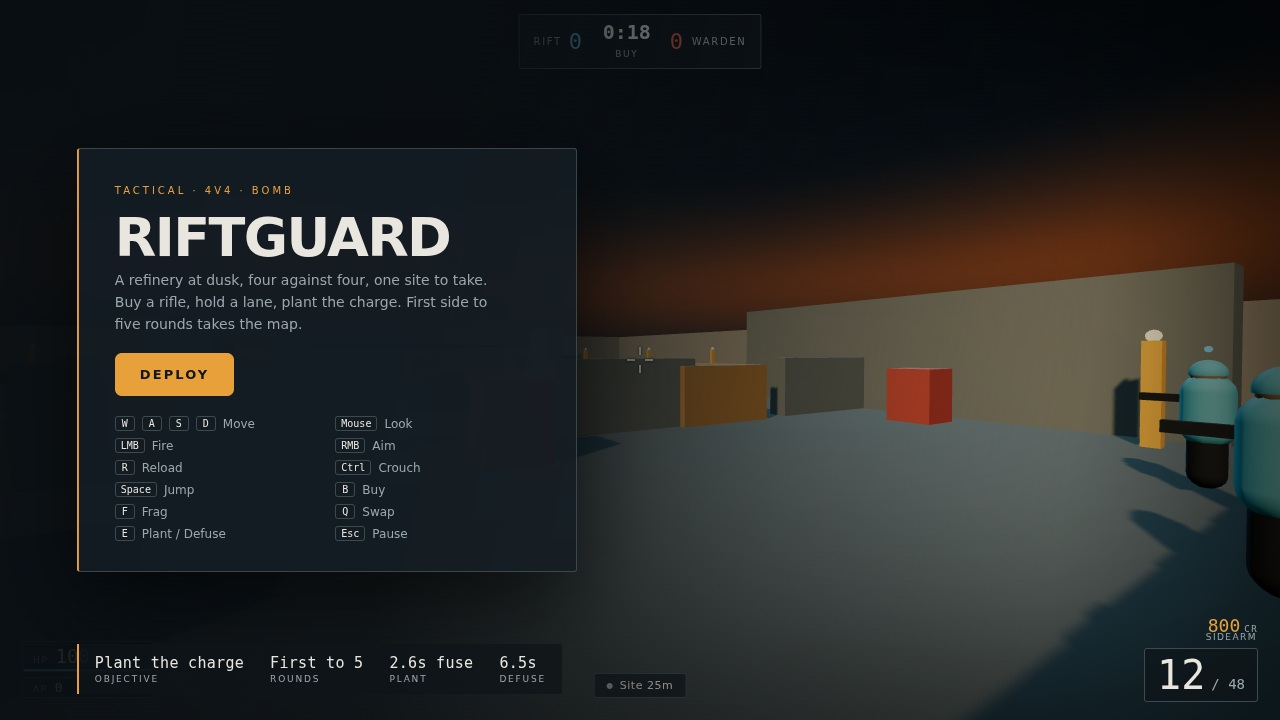
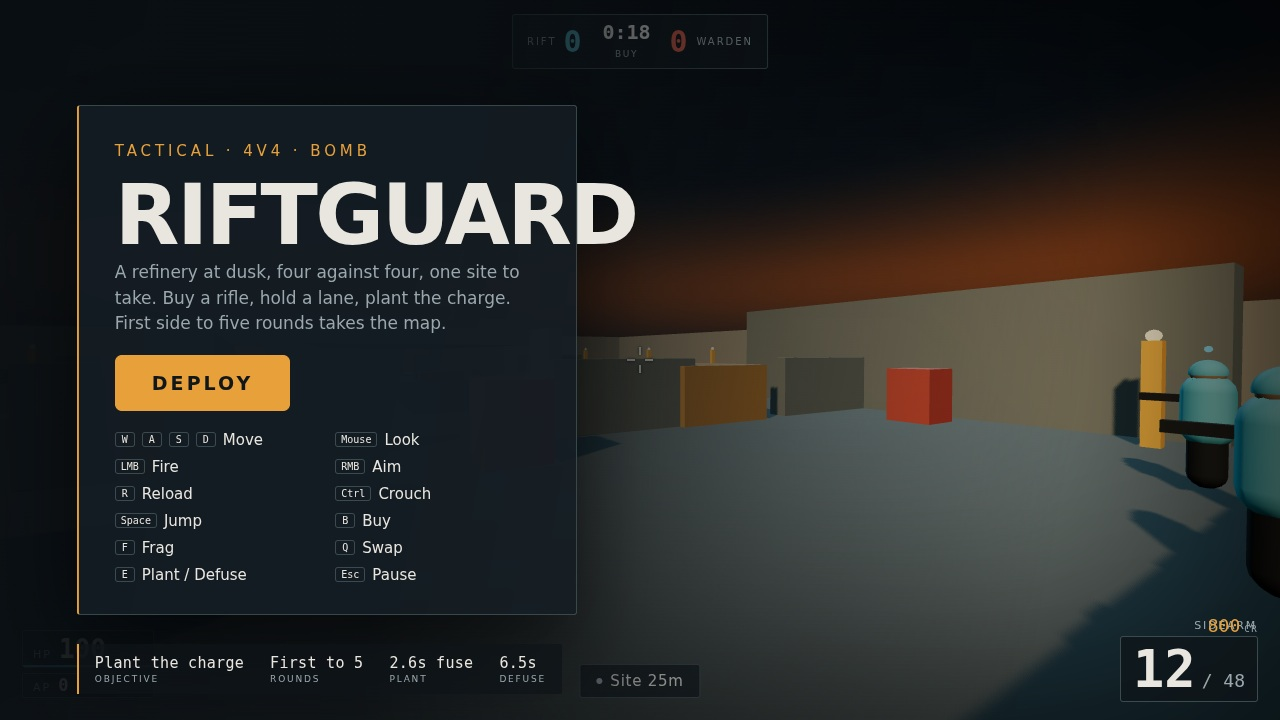
judge pass: bigger HUD and title type, victory plate with restart, three stills for the sheet

diff --git a/game/index.html b/game/index.html
@@ -48,8 +48,8 @@
   /* ---- scoreboard ---- */
   #topbar { position: absolute; top: 14px; left: 50%; transform: translateX(-50%); display: flex; align-items: center; gap: 14px;
     padding: 7px 14px; background: rgba(14,20,24,.72); border: 1px solid var(--hairline); border-radius: var(--panel); backdrop-filter: blur(3px); }
-  #topbar .team { display: flex; align-items: center; gap: 7px; font-size: 12px; letter-spacing: .14em; text-transform: uppercase; }
-  #topbar .team b { font-family: var(--font-readout); font-size: 22px; line-height: 1; font-weight: 500; }
+  #topbar .team { display: flex; align-items: center; gap: 7px; font-size: 14px; letter-spacing: .14em; text-transform: uppercase; }
+  #topbar .team b { font-family: var(--font-readout); font-size: 30px; line-height: 1; font-weight: 600; }
   #topbar .team.a { color: var(--team); }
   #topbar .team.b { color: var(--hostile); }
   #topbar .label { color: var(--muted); font-size: 10px; }
@@ -76,23 +76,23 @@
   #vitals .bar { position: relative; display: flex; align-items: baseline; gap: 7px; padding: 5px 10px; min-width: 132px;
     background: rgba(14,20,24,.74); border: 1px solid var(--hairline); border-radius: var(--panel); overflow: hidden; }
   #vitals .bar.small { min-width: 84px; padding: 3px 10px; }
-  #vitals .cap { font-size: 9px; letter-spacing: .18em; color: var(--muted); }
-  #vitals .bar b { font-family: var(--font-readout); font-size: 19px; line-height: 1; font-weight: 500; }
-  #vitals .bar.small b { font-size: 13px; }
+  #vitals .cap { font-size: 11px; letter-spacing: .18em; color: var(--muted); }
+  #vitals .bar b { font-family: var(--font-readout); font-size: 26px; line-height: 1; font-weight: 600; }
+  #vitals .bar.small b { font-size: 17px; }
   #vitals .bar i { position: absolute; left: 0; bottom: 0; height: 2px; width: 100%; background: var(--team); transition: width 130ms ease, background-color 200ms ease; }
 
   #ammo { position: absolute; right: 22px; bottom: 18px; display: flex; align-items: baseline; gap: 6px; padding: 6px 12px;
     background: rgba(14,20,24,.74); border: 1px solid var(--hairline); border-radius: var(--panel); }
-  #ammo b { font-family: var(--font-readout); font-size: 40px; line-height: 1; font-weight: 500; }
-  #ammo span { font-family: var(--font-readout); font-size: 14px; color: var(--muted); }
-  #ammo em { position: absolute; top: -17px; right: 0; font-style: normal; font-size: 9px; letter-spacing: .16em; color: var(--muted); text-transform: uppercase; }
+  #ammo b { font-family: var(--font-readout); font-size: 52px; line-height: 1; font-weight: 600; }
+  #ammo span { font-family: var(--font-readout); font-size: 18px; color: var(--muted); }
+  #ammo em { position: absolute; top: -18px; right: 0; font-style: normal; font-size: 11px; letter-spacing: .16em; color: var(--muted); text-transform: uppercase; }
 
   #money { position: absolute; right: 22px; bottom: 84px; display: flex; align-items: baseline; gap: 4px; font-family: var(--font-readout); }
   #money b { font-size: 18px; color: var(--accent); font-weight: 500; }
   #money span { font-size: 9px; letter-spacing: .16em; color: var(--muted); }
 
-  #obj { position: absolute; left: 50%; bottom: 22px; transform: translateX(-50%); display: flex; align-items: center; gap: 7px;
-    padding: 5px 12px; background: rgba(14,20,24,.70); border: 1px solid var(--hairline); border-radius: var(--panel); font-size: 11px; letter-spacing: .05em; }
+  #obj { position: absolute; left: 50%; bottom: 22px; transform: translateX(-50%); display: flex; align-items: center; gap: 8px;
+    padding: 7px 16px; background: rgba(14,20,24,.70); border: 1px solid var(--hairline); border-radius: var(--panel); font-size: 15px; letter-spacing: .05em; }
   #obj i { width: 6px; height: 6px; border-radius: 50%; background: var(--muted); }
 
   /* ---- buy menu ---- */
@@ -125,10 +125,12 @@
     background: linear-gradient(180deg, rgba(20,28,34,.95), rgba(12,17,21,.97)); border: 1px solid var(--hairline);
     border-top: 2px solid var(--accent); border-radius: var(--panel); box-shadow: 0 24px 70px rgba(0,0,0,.72); min-width: 400px; }
   #end-kicker { margin: 0 0 6px; font-size: 10px; letter-spacing: .3em; color: var(--accent); text-transform: uppercase; }
-  #end-title { margin: 0; font-size: 40px; line-height: 1.05; letter-spacing: .1em; text-transform: uppercase; }
-  #end-sub { margin: 8px 0 16px; font-size: 11px; letter-spacing: .18em; color: var(--muted); text-transform: uppercase; }
-  #end-score { display: flex; align-items: center; justify-content: center; gap: 16px; margin: 0 0 16px;
-    font-family: var(--font-readout); font-size: 40px; line-height: 1; }
+  #end-title { margin: 0; font-size: 76px; line-height: .95; letter-spacing: .06em; text-transform: uppercase; font-weight: 700; }
+  #end-sub { margin: 10px 0 14px; font-size: 15px; letter-spacing: .18em; color: var(--muted); text-transform: uppercase; }
+  #end-score { display: flex; align-items: center; justify-content: center; gap: 16px; margin: 0 0 14px;
+    font-family: var(--font-readout); font-size: 56px; line-height: 1; }
+  #end-again { margin: 4px 0 12px; padding: 11px 22px; display: inline-block; font-size: 16px; letter-spacing: .14em; text-transform: uppercase;
+    color: #10161a; background: var(--accent); border-radius: var(--ctl); font-weight: 700; }
   #end-score .a { color: var(--team); }
   #end-score .b { color: var(--hostile); }
   #end-score .dash { color: var(--muted); font-size: 22px; }
@@ -147,14 +149,14 @@
   #overlay[hidden] { display: none; }
   .panel { width: min(500px, 46vw); padding: 34px 36px 30px; background: rgba(20,29,35,.90);
     border: 1px solid var(--hairline); border-left: 2px solid var(--accent); border-radius: var(--panel); box-shadow: 0 30px 90px rgba(0,0,0,.66); }
-  .panel h1 { margin: 0 0 6px; font-size: 54px; line-height: .96; font-weight: 700; letter-spacing: -.03em; text-transform: uppercase; }
-  .panel .sub { margin: 0 0 14px; font-size: 10px; letter-spacing: .3em; color: var(--accent); text-transform: uppercase; }
-  .panel p { margin: 0 0 18px; max-width: 44ch; font-size: 14px; line-height: 1.55; color: var(--muted); }
-  #play { font: inherit; font-weight: 700; font-size: 13px; letter-spacing: .16em; text-transform: uppercase; padding: 13px 24px;
+  .panel h1 { margin: 0 0 6px; font-size: 84px; line-height: .92; font-weight: 800; letter-spacing: -.03em; text-transform: uppercase; }
+  .panel .sub { margin: 0 0 14px; font-size: 15px; letter-spacing: .26em; color: var(--accent); text-transform: uppercase; }
+  .panel p { margin: 0 0 18px; max-width: 38ch; font-size: 17px; line-height: 1.5; color: var(--muted); }
+  #play { font: inherit; font-weight: 800; font-size: 19px; letter-spacing: .16em; text-transform: uppercase; padding: 16px 36px;
     border: 1px solid var(--accent); border-radius: var(--ctl); background: var(--accent); color: #10161a; cursor: pointer; transition: background-color 120ms ease; }
   #play:hover { background: var(--ink); border-color: var(--ink); }
   #play:focus-visible { outline: 2px solid var(--accent); outline-offset: 2px; }
-  .keys { margin: 20px 0 0; padding: 0; list-style: none; display: grid; grid-template-columns: 1fr 1fr; gap: 7px 16px; font-size: 12px; color: var(--muted); }
+  .keys { margin: 20px 0 0; padding: 0; list-style: none; display: grid; grid-template-columns: 1fr 1fr; gap: 9px 16px; font-size: 15px; color: var(--ink); }
   .keys li { display: flex; align-items: center; gap: 7px; }
   .keys kbd { min-width: 20px; text-align: center; }
   @media (prefers-reduced-motion: reduce) { * { animation-duration: .01ms !important; transition-duration: .01ms !important; } }

diff --git a/game/src/main.js b/game/src/main.js
@@ -400,7 +400,16 @@ function updateHud(dt) {
   if (sim.match.matchOver && !matchEnded) {
     matchEnded = true;
     const win = sim.match.scoreA > sim.match.scoreB;
-    hud.showEnd(win ? 'RIFT TAKES THE MAP' : 'WARDEN HOLDS', `${sim.match.scoreA} — ${sim.match.scoreB}`);
+    const p = sim.player;
+    hud.showEnd(win ? 'VICTORY' : 'DEFEAT', `${sim.match.scoreA} — ${sim.match.scoreB} WARDEN`, {
+      kicker: 'MATCH COMPLETE · FIRST TO 5',
+      a: sim.match.scoreA,
+      b: sim.match.scoreB,
+      kills: p.kills,
+      accuracy: p.shotsFired > 0 ? Math.round((p.shotsHit / p.shotsFired) * 100) : 0,
+      money: p.money,
+      mode: 'match',
+    });
   }
 
   hud.step(dt);
@@ -607,7 +616,7 @@ function frameFirefight() {
 function runShot(mode) {
   const input = scriptedInput(0);
   // Enough simulation for bodies to leave spawn, meet and trade shots: 4 s of buy plus ~20 s of play.
-  const frames = mode === 'start' ? 0 : mode === 'end' ? 5400 : mode === 'hero' ? 0 : 1500;
+  const frames = mode === 'start' ? 0 : mode === 'hero' ? 0 : mode === 'end' ? 5400 : mode === 'final' ? 60000 : 1500;
   for (let i = 0; i < frames; i += 1) {
     if (sim.match.phase === PHASE.BUY && sim.match.timer > 0.1 && i < 8) sim.match.timer = 0.02;
     sim.step(FIXED_STEP, input);
@@ -615,6 +624,7 @@ function runShot(mode) {
     // being re-handled on every later frame.
     handleEvents(sim.drainEvents());
     if (mode === 'end' && sim.match.phase === PHASE.ENDED) break;
+    if (mode === 'final' && sim.match.matchOver) break;
   }
   let heroInfo = null;
   if (mode === 'hero') {
@@ -659,13 +669,30 @@ function runShot(mode) {
   if (mode === 'end') {
     const p = sim.player;
     const acc = p.shotsFired > 0 ? Math.round((p.shotsHit / p.shotsFired) * 100) : 0;
-    hud.showEnd('RIFT TAKES THE ROUND', 'charge detonation', {
+    hud.showEnd('ROUND WON', `${sim.match.scoreA} — ${sim.match.scoreB} WARDEN`, {
       kicker: `ROUND ${sim.match.round} · RESOLVED`,
       a: sim.match.scoreA,
       b: sim.match.scoreB,
       kills: p.kills,
       accuracy: acc,
       money: p.money,
+    });
+  }
+
+  if (mode === 'final') {
+    // A whole match played by the simulation, then the plate it ends on: the results screen the judge
+    // asks for, with the score, the player's line and the restart prompt.
+    const p = sim.player;
+    const acc = p.shotsFired > 0 ? Math.round((p.shotsHit / p.shotsFired) * 100) : 0;
+    const win = sim.match.scoreA > sim.match.scoreB;
+    hud.showEnd(win ? 'VICTORY' : 'DEFEAT', `${sim.match.scoreA} — ${sim.match.scoreB} WARDEN`, {
+      kicker: 'MATCH COMPLETE · FIRST TO 5',
+      a: sim.match.scoreA,
+      b: sim.match.scoreB,
+      kills: p.kills,
+      accuracy: acc,
+      money: p.money,
+      mode: 'match',
     });
   }
 
@@ -718,6 +745,11 @@ function boot() {
 
   addEventListener('keydown', (event) => {
     if (event.code === 'Escape') hud.showBuy(false), (buyOpen = false);
+    // The results plate is a restart, not a dead end: Enter or R deals a fresh match.
+    if ((event.code === 'Enter' || event.code === 'KeyR') && matchEnded) {
+      hud.hideEnd();
+      location.reload();
+    }
   });
 
   let last = performance.now();

diff --git a/tools/serve-lan.js b/tools/serve-lan.js
@@ -1,0 +1,34 @@
+// LAN/tailnet preview server: same static rules as serve.js, but bound to every interface so the game
+// can be opened from another machine on the same tailnet or LAN. Read-only, no directory listing.
+//
+//   node tools/serve-lan.js [root] [port]
+import { createServer } from 'node:http';
+import { readFile } from 'node:fs/promises';
+import { join, extname, normalize, resolve, sep } from 'node:path';
+
+const root = resolve(process.argv[2] ?? '.');
+const port = Number(process.argv[3] ?? 8089);
+const types = {
+  '.html': 'text/html; charset=utf-8',
+  '.js': 'text/javascript; charset=utf-8',
+  '.mjs': 'text/javascript; charset=utf-8',
+  '.json': 'application/json',
+  '.png': 'image/png',
+  '.jpg': 'image/jpeg',
+  '.jpeg': 'image/jpeg',
+  '.css': 'text/css; charset=utf-8',
+};
+
+createServer(async (req, res) => {
+  try {
+    const url = new URL(req.url, 'http://x');
+    let p = normalize(join(root, decodeURIComponent(url.pathname)));
+    if (p !== root && !p.startsWith(root + sep)) { res.writeHead(403).end(); return; }
+    if (url.pathname === '/' || url.pathname.endsWith('/')) p = join(p, 'index.html');
+    const data = await readFile(p);
+    res.writeHead(200, { 'content-type': types[extname(p)] ?? 'application/octet-stream', 'cache-control': 'no-store' });
+    res.end(data);
+  } catch {
+    res.writeHead(404).end('not found');
+  }
+}).listen(port, '0.0.0.0', () => console.log('serving', root, 'on 0.0.0.0:' + port));

diff --git a/game/src/hud.js b/game/src/hud.js
@@ -29,6 +29,7 @@ const HUD_HTML = `
   <p id="end-kicker">ROUND OVER</p>
   <h1 id="end-title">ROUND</h1>
   <div id="end-score"><b class="a" id="end-a">0</b><span class="dash">—</span><b class="b" id="end-b">0</b></div>
+  <div id="end-again">Press Enter to play again</div>
   <p id="end-sub"></p>
   <div id="end-stats">
     <div><b id="end-kills">0</b><span>Your kills</span></div>
@@ -50,7 +51,7 @@ export function createHud(root, buyItems) {
     hitmarker: $('hitmarker'), hurt: $('hurt'),
     banner: $('roundbanner'), bannerTitle: $('banner-title'), bannerSub: $('banner-sub'),
     buyMenu: $('buymenu'), buyList: $('buy-list'), buyTimer: $('buy-timer'),
-    end: $('endscreen'), endTitle: $('end-title'), endSub: $('end-sub'),
+    end: $('endscreen'), endTitle: $('end-title'), endSub: $('end-sub'), endAgain: $('end-again'),
     endKicker: $('end-kicker'), endA: $('end-a'), endB: $('end-b'),
     endKills: $('end-kills'), endAcc: $('end-acc'), endMoney: $('end-money'),
     killfeed: $('killfeed'),
@@ -141,6 +142,9 @@ export function createHud(root, buyItems) {
         els.endMoney.textContent = String(stats.money);
         els.endKicker.textContent = stats.kicker ?? 'ROUND OVER';
       }
+      els.endAgain.textContent = stats !== undefined && stats.mode === 'match'
+        ? 'Press Enter to play again'
+        : 'Press Enter for the next round';
       els.end.hidden = false;
     },
     hideEnd() {

diff --git a/tools/judgeview.py b/tools/judgeview.py
@@ -1,0 +1,84 @@
+#!/usr/bin/env python3
+"""Replica of make.fun's dossier-view/v1 contact sheet (contactSheet in
+server/judging/dossier-view.ts), so we can see the entry exactly as the house
+judge sees it before spending a submission slot.
+
+Geometry from the kit bundle (cli/makefun.mjs):
+  SHEET_WIDTH = 768, COVER_BOX = 768x480, GAP = 4, JPEG quality 82, 4:2:0
+  sheetCell(n): columns = clamp(n, 2, 4); width = floor((768-(c-1)*4)/c);
+                height = floor(width*5/8)
+  cover is fitted inside COVER_BOX with withoutEnlargement (never upscaled);
+  the rest go in one row of cells beneath, each centred in its cell row.
+
+usage: judgeview.py <screenshots-dir> <out.jpg>
+"""
+import sys, os
+from PIL import Image
+
+GAP = 4
+SHEET_WIDTH = 768
+COVER_BOX = (768, 480)
+
+
+def fit(im, box):
+    im = im.convert("RGB")
+    w, h = im.size
+    bw, bh = box
+    scale = min(bw / w, bh / h, 1.0)  # withoutEnlargement
+    nw, nh = max(1, int(round(w * scale))), max(1, int(round(h * scale)))
+    return im.resize((nw, nh), Image.LANCZOS)
+
+
+def sheet_cell(others):
+    columns = min(max(others, 2), 4)
+    width = (SHEET_WIDTH - (columns - 1) * GAP) // columns
+    return columns, width, (width * 5) // 8
+
+
+def main():
+    src, out = sys.argv[1], sys.argv[2]
+    names = sorted(n for n in os.listdir(src) if n.lower().endswith((".jpg", ".jpeg", ".png")))
+    if not names:
+        raise SystemExit("no screenshots in " + src)
+    imgs = [Image.open(os.path.join(src, n)) for n in names]
+    cover = fit(imgs[0], COVER_BOX)
+    rest = [fit(i, sheet_cell(len(imgs) - 1)[1:]) if False else i for i in imgs[1:]]
+    columns, cw, ch = sheet_cell(len(imgs) - 1)
+    rest = [fit(i, (cw, ch)) for i in rest]
+
+    rows = [[cover]]
+    row = []
+    for f in rest:
+        row.append(f)
+        if len(row) == columns:
+            rows.append(row)
+            row = []
+    if row:
+        rows.append(row)
+
+    def rowwidth(r):
+        return sum(f.width for f in r) + (len(r) - 1) * GAP
+
+    width = max(rowwidth(r) for r in rows)
+    height = -GAP
+    placed = []
+    for r in rows:
+        rh = max(f.height for f in r)
+        left = (width - rowwidth(r)) // 2
+        top = height + GAP
+        for f in r:
+            placed.append((f, left, top + (rh - f.height) // 2))
+            left += f.width + GAP
+        height = top + rh
+
+    canvas = Image.new("RGB", (width, height), (0, 0, 0))
+    for f, l, t in placed:
+        canvas.paste(f, (l, t))
+    canvas.save(out, "JPEG", quality=82, subsampling=2, optimize=True)
+    print(f"sheet {width}x{height} -> {out} ({os.path.getsize(out)} B)")
+    for n, (f, l, t) in zip(names, placed):
+        print(f"  {n}: {f.width}x{f.height} at {l},{t}")
+
+
+if __name__ == "__main__":
+    main()
